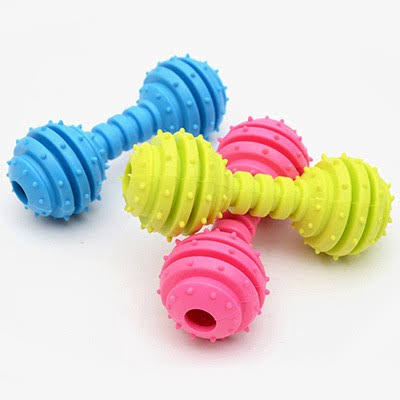
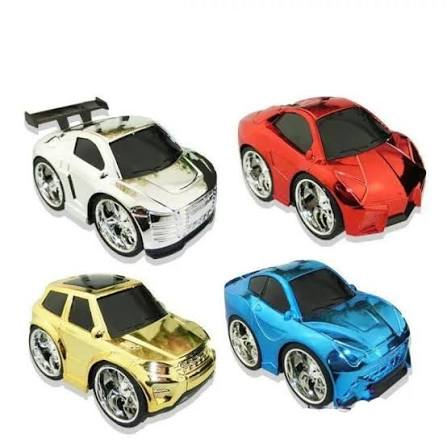
b13

diff --git a/pages/home.py b/pages/home.py
@@ -9,11 +9,12 @@ from PyQt6 import uic
 danhsach_monhang = [
     {
         "id": 1,
-        "name": "Bánh tròn màu sắc",
+        "name": "Banh tròn màu sắc",
         "price": "20.000đ",
         "created_by": "Nam Thông",
         "details": "Đồ chơi bằng nhựa PP nguyên sinh an toàn cho trẻ nhỏ, nhiều màu sắc.",
         "created_at": date(2026, 6, 21),
+        "img": "assets/imgs/image_1.jpg"
     },
     {
         "id": 2,
@@ -22,6 +23,7 @@ danhsach_monhang = [
         "created_by": "Minh Anh",
         "details": "Xe mô hình nhỏ bằng hợp kim, sơn màu bền đẹp.",
         "created_at": date(2026, 6, 20),
+        "img": "assets/imgs/image_2.jpg"
     },
     {
         "id": 3,
@@ -30,6 +32,7 @@ danhsach_monhang = [
         "created_by": "Thu Hà",
         "details": "Búp bê may bằng vải cotton mềm mại, an toàn cho bé.",
         "created_at": date(2026, 6, 19),
+        "img": "assets/imgs/image_3.jpg"
     },
     {
         "id": 4,
@@ -38,6 +41,7 @@ danhsach_monhang = [
         "created_by": "Quốc Bảo",
         "details": "Bộ xếp hình bằng gỗ tự nhiên, giúp phát triển tư duy.",
         "created_at": date(2026, 6, 18),
+        "img": "assets/imgs/image_4.jpg"
     },
     {
         "id": 5,
@@ -46,6 +50,7 @@ danhsach_monhang = [
         "created_by": "Lan Nhi",
         "details": "Bóng cao su nhiều màu, đàn hồi tốt, an toàn.",
         "created_at": date(2026, 6, 17),
+        "img": "assets/imgs/image_5.jpg"
     },
     {
         "id": 6,
@@ -54,6 +59,7 @@ danhsach_monhang = [
         "created_by": "Hùng Cường",
         "details": "Đất nặn an toàn không độc hại, bộ 12 màu.",
         "created_at": date(2026, 6, 16),
+        "img": "assets/imgs/image_6.jpg"
     },
     {
         "id": 7,
@@ -62,6 +68,7 @@ danhsach_monhang = [
         "created_by": "Diệu Linh",
         "details": "Tập tranh tô màu chủ đề động vật, 20 trang.",
         "created_at": date(2026, 6, 15),
+        "img": "assets/imgs/image_7.jpg"
     },
     {
         "id": 8,
@@ -70,6 +77,7 @@ danhsach_monhang = [
         "created_by": "Phúc An",
         "details": "Trống lắc nhỏ bằng gỗ, âm thanh vui nhộn cho bé.",
         "created_at": date(2026, 6, 14),
+        "img": "assets/imgs/image_8.jpg"
     },
     {
         "id": 9,
@@ -78,6 +86,7 @@ danhsach_monhang = [
         "created_by": "Bảo Châu",
         "details": "Kính lúp nhỏ dành cho bé khám phá thiên nhiên.",
         "created_at": date(2026, 6, 13),
+        "img": "assets/imgs/image_9.jpg"
     },
     {
         "id": 10,
@@ -86,6 +95,7 @@ danhsach_monhang = [
         "created_by": "Yến Nhi",
         "details": "Thú nhồi bông hình gấu, lông mềm mịn, size vừa tay bé.",
         "created_at": date(2026, 6, 12),
+        "img": "assets/imgs/image_10.jpg"
     },
 ]
 
@@ -154,8 +164,8 @@ class HomePage(QMainWindow):
 
             # ✅ Random ảnh 1 hoặc 2 vì data chỉ có 2 ảnh
             # random.choice([...]) → chọn ngẫu nhiên 1 phần tử trong danh sách
-            so_anh = random.choice([1, 2])
-            img_path = f"{self.root_dir}/assets/imgs/image_{so_anh}.jpg"
+            #so_anh = random.choice([1, 2, 3, 4, 5, 6, 7, 8, 9, 10])
+            img_path = f"{self.root_dir}/" + mon_hang["img"]
 
             # ✅ Gán đường dẫn ảnh vào data trước khi truyền vào card
             mon_hang_copy = {**mon_hang, "img": img_path}